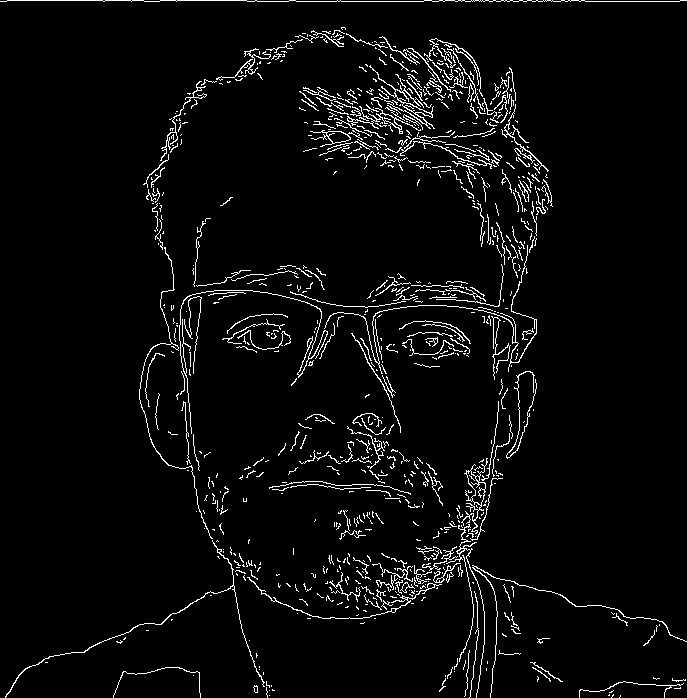
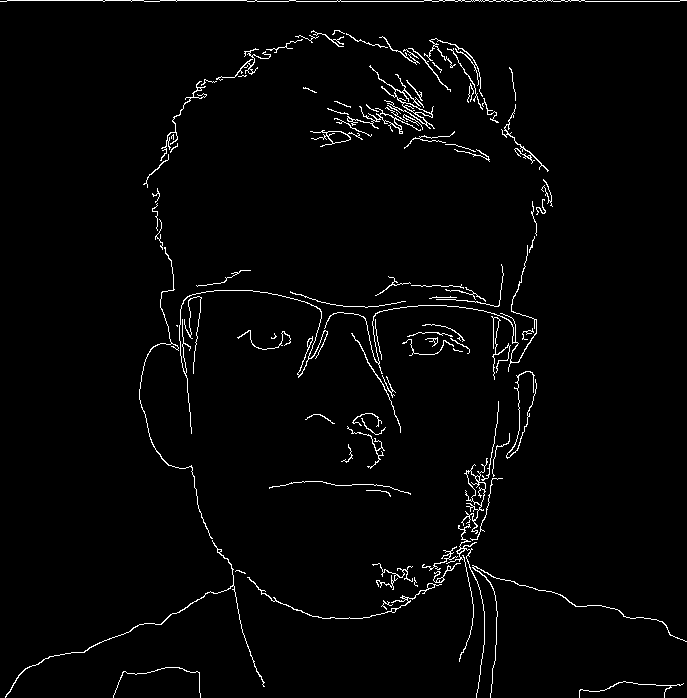
implemented 2 methods for edgeDetection using Laplacian transf and Canny method
Introduces DNN-based face detection using Caffe models and webcam support, including resources and sample images. Adds Haar Cascade face detection implementation and reorganizes configuration and image output files for edge detectors.

diff --git a/src/main/java/org/enzoribas/EdgeDetector/LaplacianEdgeDetector.java b/src/main/java/org/enzoribas/EdgeDetector/LaplacianEdgeDetector.java
@@ -2,6 +2,7 @@ package org.enzoribas.EdgeDetector;
 
 import org.bytedeco.javacpp.Loader;
 import org.bytedeco.opencv.opencv_core.Mat;
+import org.enzoribas.Config;
 
 import static org.bytedeco.opencv.global.opencv_core.*;
 import static org.bytedeco.opencv.global.opencv_imgcodecs.*;
@@ -13,7 +14,9 @@ public class LaplacianEdgeDetector {
     }
 
     public static void main(String[] args) {
-        Mat src = imread(Config.INPUT_IMAGE, IMREAD_GRAYSCALE);
+        String projectPath = Config.PROJECT_PATH + "EdgeDetector/images/"; // Adjust the input image path as needed
+        String inputImagePath = projectPath + "input.jpg";
+        Mat src = imread(inputImagePath, IMREAD_GRAYSCALE);
         if (src.empty()) {
             System.out.println("Could not load image!");
             return;
@@ -25,7 +28,7 @@ public class LaplacianEdgeDetector {
         Laplacian(src, grad, CV_16S, 5, 1, 1, BORDER_DEFAULT);
         convertScaleAbs(grad, grad);
 
-        String outputDir = Config.OUTPUT_IMAGE + "/laplacian/";
+        String outputDir = Config.PROJECT_PATH + "EdgeDetector/images/output/laplacian/";;
         String fileName = "edges.png";
 
         imwrite(outputDir+fileName, grad);

diff --git a/src/main/java/org/enzoribas/EdgeDetector/CannyEdgeDetector.java b/src/main/java/org/enzoribas/EdgeDetector/CannyEdgeDetector.java
@@ -3,6 +3,7 @@ package org.enzoribas.EdgeDetector;
 
 import org.bytedeco.javacpp.Loader;
 import org.bytedeco.opencv.opencv_core.Mat;
+import org.enzoribas.Config;
 
 import static org.bytedeco.opencv.global.opencv_imgcodecs.*;
 import static org.bytedeco.opencv.global.opencv_imgproc.Canny;
@@ -13,16 +14,18 @@ public class CannyEdgeDetector {
     }
 
     public static void main(String[] args) {
-        Mat src = imread(Config.INPUT_IMAGE, IMREAD_GRAYSCALE);
+        String projectPath = Config.PROJECT_PATH + "EdgeDetector/images/";
+        String inputImagePath = projectPath + "input.jpg";
+        Mat src = imread(inputImagePath, IMREAD_GRAYSCALE);
         if (src.empty()) {
             System.out.println("Could not load image!");
             return;
         }
 
         Mat edges = new Mat();
-        Canny(src, edges, 50, 70);
+        Canny(src, edges, 50, 170);
 
-        String outputDir = Config.OUTPUT_IMAGE + "/canny/";
+        String outputDir = Config.PROJECT_PATH + "EdgeDetector/images/output/canny/";;
         String fileName = "edges.png";
 
         imwrite(outputDir+fileName, edges);

diff --git a/src/main/java/org/enzoribas/Config.java b/src/main/java/org/enzoribas/Config.java
@@ -1,0 +1,5 @@
+package org.enzoribas;
+
+public class Config {
+    public static final String PROJECT_PATH = "src/main/java/org/enzoribas/";
+}
